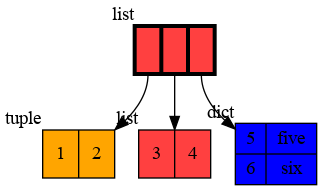
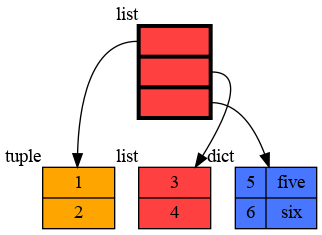
vertical layout is default, nicer colors

diff --git a/images/example3.py b/images/example3.py
@@ -1,0 +1,24 @@
+import memory_graph
+
+memory_graph.graphviz_nodes.layout_vertical = False                       # draw lists,tuples,sets,... horizontally
+memory_graph.graphviz_nodes.type_category_to_color_map['list'] = 'yellow' # change color of 'list' types
+memory_graph.rewrite_to_node.reduce_reference_types.remove(int)           # draw references to 'int' types
+
+my_list = [10, 20, 10]
+
+class My_Class:
+    my_class_var = 20 # class variable: shared by different objects
+    
+    def __init__(self):
+        self.var1 = "foo"
+        self.var2 = "bar"
+        self.var3 = 20
+
+obj1 = My_Class()
+obj2 = My_Class()
+
+data=[my_list, my_list, obj1, obj2]
+
+my_list.append(data) # recursive reference
+
+memory_graph.render( data ,'example3.png', block=False)

diff --git a/memory_graph/graphviz_nodes.py b/memory_graph/graphviz_nodes.py
@@ -5,10 +5,10 @@ import graphviz
 from memory_graph import Node
 from memory_graph import rewrite
 
-layout_vertical=False
+layout_vertical=True
 type_category_to_color_map={
     "NoneType":"gray", "type":"lime", "bool":"pink", "int":"green", "float":"yellow", "str":"cyan", # fundamental types
-    "tuple":"orange", "list":"brown1", "set":"darkolivegreen1", "frozenset":"darkolivegreen3", "dict":"blue", "mappingproxy":"blue3", "class":"purple" # containers
+    "tuple":"orange", "list":"brown1", "set":"darkolivegreen1", "frozenset":"darkolivegreen3", "dict":"royalblue1", "mappingproxy":"royalblue3", "class":"orchid" # containers
 }
 uncategorized_color="red"
 

diff --git a/memory_graph/rewrite.py b/memory_graph/rewrite.py
@@ -3,7 +3,7 @@ from types import MappingProxyType
 
 # the types of the values we rewrite
 
-singular_types={NoneType, bool, int, float, complex, str, range, bytes, type}
+singular_types={NoneType, bool, int, float, complex, str, range, bytes} # not 'type' to prevent issues with reading class methods
 linear_types={tuple, list, set, frozenset, bytearray}
 dict_types={dict, MappingProxyType}
 known_types=singular_types | linear_types | dict_types

diff --git a/images/example2.py b/images/example2.py
@@ -1,0 +1,20 @@
+import memory_graph
+
+my_list = [10, 20, 10]
+
+class My_Class:
+    my_class_var = 20 # class variable: shared by different objects
+    
+    def __init__(self):
+        self.var1 = "foo"
+        self.var2 = "bar"
+        self.var3 = 20
+
+obj1 = My_Class()
+obj2 = My_Class()
+
+data=[my_list, my_list, obj1, obj2]
+
+my_list.append(data) # recursive reference
+
+memory_graph.render( data ,'example2.png', block=False)

diff --git a/images/example1.py b/images/example1.py
@@ -1,0 +1,4 @@
+import memory_graph
+
+data = [ (1, 2), [3, 4], {5:'five', 6:'six'} ]
+memory_graph.render( data ,'example1.png', block=False)

diff --git a/README.md b/README.md
@@ -34,14 +34,15 @@ also shows we can handle recursive references just fine.
 ```
 import memory_graph
 
-my_list = [10, 20, 30]
+my_list = [10, 20, 10]
 
 class My_Class:
-    my_class_var = 1000 # class variable: shared by different objects
+    my_class_var = 20 # class variable: shared by different objects
     
     def __init__(self):
         self.var1 = "foo"
         self.var2 = "bar"
+        self.var3 = 20
 
 obj1 = My_Class()
 obj2 = My_Class()
@@ -54,7 +55,9 @@ memory_graph.show( data )
 ```
 ![image](https://raw.githubusercontent.com/bterwijn/memory_graph/main/images/example2.png)
 
-Often it is useful to show all local variables using:
+## Graph all Local Variables ##
+
+Often it is useful to graph all the local variables using:
 
 ```
 memory_graph.show( memory_graph.filter(locals()) )
@@ -72,7 +75,7 @@ pip install memory-graph
 
 Different aspects of memory_graph can be configured.
 
-### Config visualization, graphviz_nodes ###
+### Config Visualization, graphviz_nodes ###
 
 Configure how the nodes of the graph are visualized with:
 
@@ -91,7 +94,7 @@ digraph = memory_graph.create_graph( memory_graph.filter(locals()) )
 ```
 and see the [graphviz api](https://graphviz.readthedocs.io/en/stable/api.html) to render it in many different ways.
 
-### Config node structure, rewrite_to_node ###
+### Config Node Structure, rewrite_to_node ###
 
 Configure the structure of the nodes in the graph with:
 
@@ -102,7 +105,7 @@ Configure the structure of the nodes in the graph with:
 - ***memory_graph.rewrite_to_node.class_variables_label*** : str
   - the label used to reference the class varibles (mappingproxy)
 
-### Config node creation, rewrite ###
+### Config Node Creation, rewrite ###
 
 Configure what nodes are created based on reading the given data structure:
 
@@ -117,7 +120,7 @@ Configure what nodes are created based on reading the given data structure:
 
 With configuration:
 ```
-memory_graph.graphviz_nodes.layout_vertical = True                        # draw list/tuple/set/... vertically
+memory_graph.graphviz_nodes.layout_vertical = False                       # draw lists,tuples,sets,... horizontally
 memory_graph.graphviz_nodes.type_category_to_color_map['list'] = 'yellow' # change color of 'list' types
 memory_graph.rewrite_to_node.reduce_reference_types.remove(int)           # draw references to 'int' types
 ```
